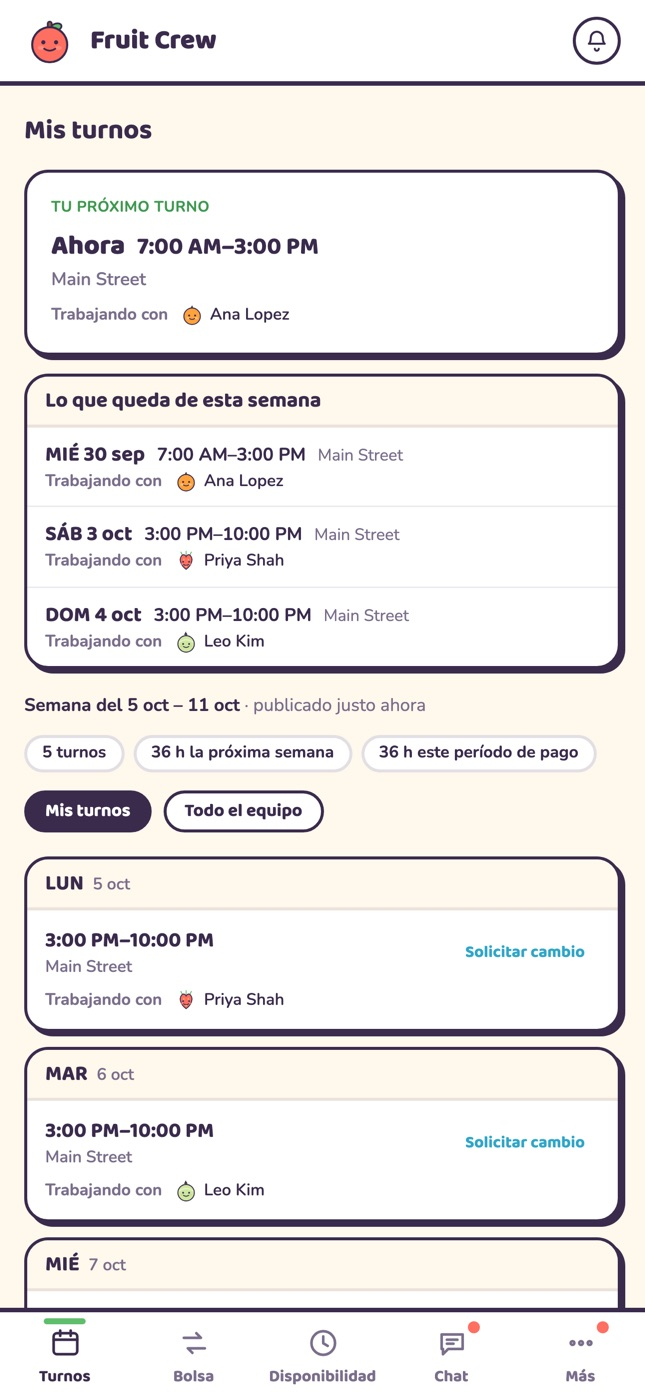
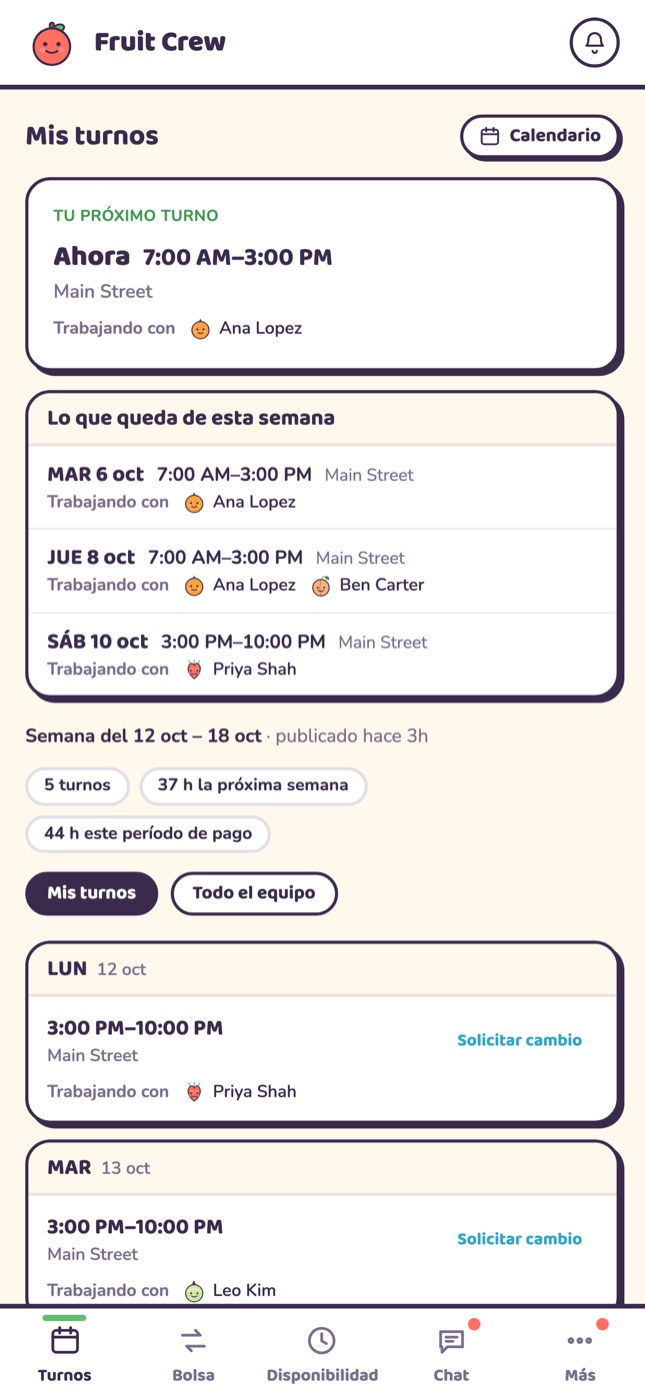
Show today's My Shifts screen in the landing page phone
The phone picture was from an older My Shifts (no Calendar button, older
header and dates). Re-capture it from the current page at phone width in
English, Spanish and Chinese, and narrow the phone's notch so it no longer
covers the end of the "Fruit Crew" logo.

Changed region(s): [[0.0, 0.0, 1.0, 1.0]]

diff --git a/Frontend/public/landing-es.html b/Frontend/public/landing-es.html
@@ -206,9 +206,9 @@
         position: absolute;
         top: 16px;
         left: 50%;
-        width: 78px;
+        width: 60px;
         height: 20px;
-        margin-left: -39px;
+        margin-left: -30px;
         border-radius: 999px;
         background: var(--ink);
         z-index: 1;

diff --git a/Frontend/public/landing-zh.html b/Frontend/public/landing-zh.html
@@ -206,9 +206,9 @@
         position: absolute;
         top: 16px;
         left: 50%;
-        width: 78px;
+        width: 60px;
         height: 20px;
-        margin-left: -39px;
+        margin-left: -30px;
         border-radius: 999px;
         background: var(--ink);
         z-index: 1;

diff --git a/Frontend/public/landing.html b/Frontend/public/landing.html
@@ -205,9 +205,9 @@
         position: absolute;
         top: 16px;
         left: 50%;
-        width: 78px;
+        width: 60px;
         height: 20px;
-        margin-left: -39px;
+        margin-left: -30px;
         border-radius: 999px;
         background: var(--ink);
         z-index: 1;
